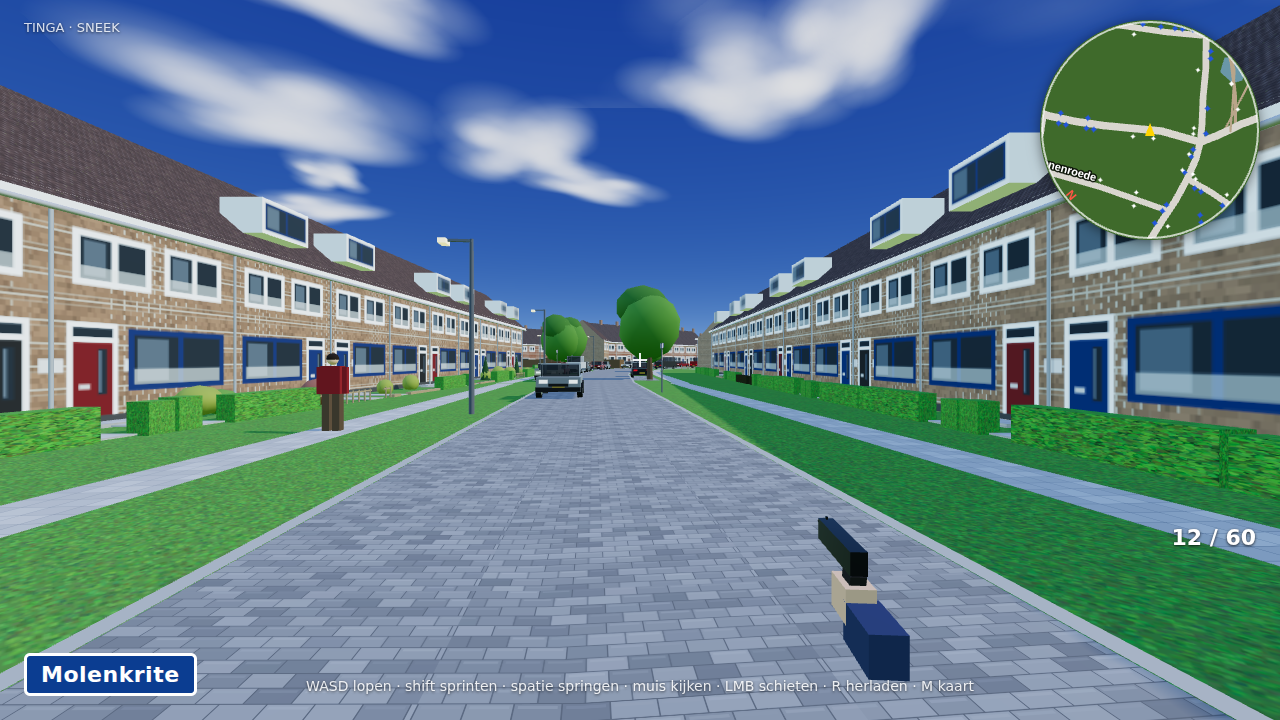
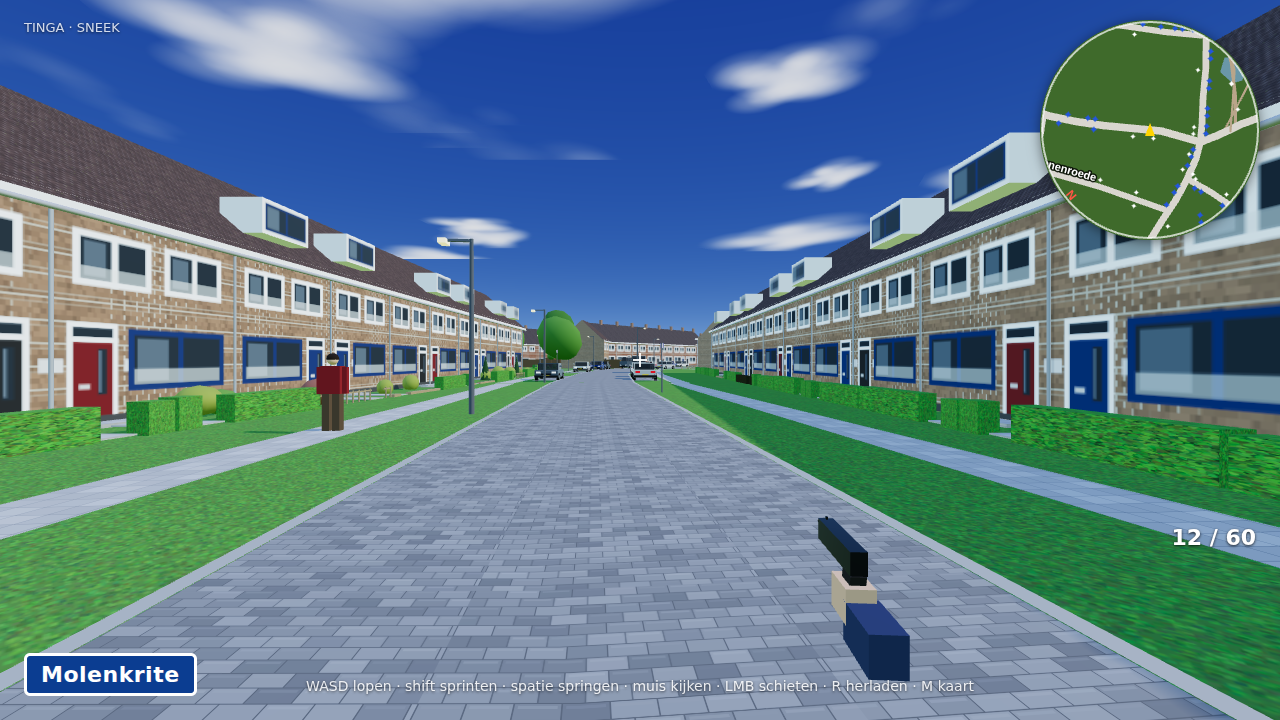
Dakkapel op elke woning en het juiste straatprofiel voor De Wieken
- Elk huis in Molenkrite en De Wieken heeft nu een dakkapel. Er zat een regel
  in die er willekeurig een op de drie oversloeg, terwijl in beide straten
  elke woning er een heeft
- Het straatprofiel kan nu per zijde verschillen. Aan de kant van de huizen
  ligt het trottoir direct tegen de rijbaan, zoals op de foto: tuin, voetpad,
  weg. Alleen waar een park of water ligt blijft de brede grasberm met bomen
- De Wieken is daarvoor gesplitst in het schuine deel, met het parkje aan de
  noordoostkant en huizen aan de zuidwestkant, en het oost-westdeel met
  huizen aan weerszijden
- Voortuinen langs De Wieken van zeven naar vier meter, zodat de rooilijn
  klopt met de foto
- Parkeerhavens en straatbomen verschijnen alleen nog aan een zijde waar de
  berm er ruimte voor heeft; lantaarnpalen staan nu altijd op de stoeprand

Claude-Session: https://claude.ai/code/session_01CgvJ3cT2qTz68qbaTBhnbp

diff --git a/js/world.js b/js/world.js
@@ -197,20 +197,29 @@ function buildRoads(scene) {
     const mat = MAT[road.type] || MAT.klinker;
     scene.add(Object.assign(new THREE.Mesh(ribbon(pts, road.w, ROAD_Y + i * 0.0007, 0, 0.5), mat), { receiveShadow: true }));
     const isPath = road.type === 'pad' || road.type === 'fietspad';
-    const verge = road.verge || 0;
+    // De berm kan per zijde verschillen: aan de kant van de huizen ligt het
+    // trottoir vaak direct tegen de rijbaan (tuin, voetpad, weg), terwijl aan
+    // de overkant een brede grasberm met bomen ligt.
+    const vergeL = road.vergeL != null ? road.vergeL : (road.verge || 0);
+    const vergeR = road.vergeR != null ? road.vergeR : (road.verge || 0);
     const walkSides = road.walk || '';
-    const walkOff = road.w / 2 + verge + 0.6;   // hart van het trottoir
-    const corr = road.w / 2 + (isPath ? 0.4 : verge + 1.4);
+    const walkOffL = road.w / 2 + vergeL + 0.6;
+    const walkOffR = road.w / 2 + vergeR + 0.6;
+    const verge = Math.max(vergeL, vergeR);
+    const corr = road.w / 2 + (isPath ? 0.4 : Math.min(vergeL, vergeR) + 1.4);
     for (let k = 0; k < pts.length - 1; k++) {
-      roadSegments.push({ name: road.name, a: [pts[k].x, pts[k].y], b: [pts[k + 1].x, pts[k + 1].y], w: road.w, corr, walkOff, drive: !isPath });
+      roadSegments.push({
+        name: road.name, a: [pts[k].x, pts[k].y], b: [pts[k + 1].x, pts[k + 1].y],
+        w: road.w, corr, walkOff: walkOffL, walkOffL, walkOffR, drive: !isPath,
+      });
     }
     if (!isPath) {
       const total = polyLength(pts);
       const inner = sliceByLength(pts, road.trimStart, total - road.trimEnd) || pts;
       const y = 0.05 + i * 0.0006;
       // trottoir tegen de voortuinen, met een grasberm ertussen
-      if (walkSides.includes('L')) { walkGeoms.push(ribbon(inner, 1.2, y, walkOff, 0.8)); }
-      if (walkSides.includes('R')) { walkGeoms.push(ribbon(inner, 1.2, y, -walkOff, 0.8)); }
+      if (walkSides.includes('L')) { walkGeoms.push(ribbon(inner, 1.3, y, walkOffL, 0.8)); }
+      if (walkSides.includes('R')) { walkGeoms.push(ribbon(inner, 1.3, y, -walkOffR, 0.8)); }
       // trottoirband langs de rijbaan
       curbGeoms.push(ribbon(pts, 0.16, ROAD_Y + 0.004 + i * 0.0007, road.w / 2 + 0.08, 1));
       curbGeoms.push(ribbon(pts, 0.16, ROAD_Y + 0.004 + i * 0.0007, -(road.w / 2 + 0.08), 1));
@@ -224,8 +233,8 @@ function buildRoads(scene) {
           const yaw = -Math.atan2(d.y, d.x);
           for (let sPos = 4; sPos < len - 9; sPos += 13.5) {
             for (const sgn of [1, -1]) {
-              if (sgn > 0 && !bays.includes('L')) continue;
-              if (sgn < 0 && !bays.includes('R')) continue;
+              if (sgn > 0 && (!bays.includes('L') || vergeL < 2.0)) continue;
+              if (sgn < 0 && (!bays.includes('R') || vergeR < 2.0)) continue;
               const bayLen = 10.8, bayW = 2.2;
               const c = a.clone().add(d.clone().multiplyScalar(sPos + bayLen / 2))
                 .add(nrm.clone().multiplyScalar(sgn * (road.w / 2 + bayW / 2)));
@@ -323,11 +332,13 @@ function buildNature(scene) {
     for (let k = 0; k < pts.length - 1; k++) {
       const a = pts[k], b = pts[k + 1]; const d = b.clone().sub(a); const len = d.length(); d.normalize();
       const nrm = new THREE.Vector2(d.y, -d.x);
-      const vg = road.verge || 0;
-      if (vg < 1.6) continue;
+      const vgL = road.vergeL != null ? road.vergeL : (road.verge || 0);
+      const vgR = road.vergeR != null ? road.vergeR : (road.verge || 0);
+      if (Math.max(vgL, vgR) < 1.6) continue;
       for (let s = 6; s < len - 4; s += 13.5) {
         for (const side of [1, -1]) {
-          if (r() < 0.42) continue;
+          const vg = side > 0 ? vgL : vgR;
+          if (vg < 1.6 || r() < 0.42) continue;
           const p = a.clone().add(d.clone().multiplyScalar(s)).add(nrm.clone().multiplyScalar(side * (road.w / 2 + vg * 0.55)));
           if (!nearBuilding(p, 2.5) && !inWater(p) && !nearParkBay(p, 2.0)) treePositions.push({ x: p.x, z: p.y, s: 0.95 + r() * 0.5 });
         }
@@ -906,10 +917,12 @@ function buildFurniture(scene) {
     for (let k = 0; k < pts.length - 1; k++) {
       const a = pts[k], b = pts[k + 1]; const d = b.clone().sub(a); const len = d.length(); d.normalize();
       const nrm = new THREE.Vector2(d.y, -d.x);
-      const vg = road.verge || 0;
+      const vgL2 = road.vergeL != null ? road.vergeL : (road.verge || 0);
+      const vgR2 = road.vergeR != null ? road.vergeR : (road.verge || 0);
       for (let s = 3; s < len; s += 30) {
         const side = ((Math.floor(s / 30) + k) % 2 === 0) ? 1 : -1;
-        const p = a.clone().add(d.clone().multiplyScalar(s)).add(nrm.clone().multiplyScalar(side * (road.w / 2 + Math.min(1.0, vg * 0.45))));
+        const vg = side > 0 ? vgL2 : vgR2;
+        const p = a.clone().add(d.clone().multiplyScalar(s)).add(nrm.clone().multiplyScalar(side * (road.w / 2 + Math.max(0.45, Math.min(1.0, vg * 0.45)))));
         lamps.push({ x: p.x, z: p.y, yaw: -Math.atan2(d.y, d.x), side });
       }
       // straatnaambord + 30-bord aan het begin van elke weg

diff --git a/js/data.js b/js/data.js
@@ -84,17 +84,21 @@ export const ROADS = [
     pts: [[1160,1548],[1180,1580],[1176,1640],[1160,1700],[1178,1763],[1170,1830],[1188,1890],[1183,2000],[1183,2140]] },
 
   // ---- De Wieken / Bovenas / Windbord / Voorzoom ----
-  { name: 'De Wieken', type: 'rood', w: 4.8, verge: 2.4, walk: 'LR', bays: 'L',
+  { name: 'De Wieken', type: 'rood', w: 4.8, vergeL: 2.6, vergeR: 0.4, walk: 'LR', bays: 'L',
     pts: [[-215,880],[-210,950],[-204,1000],[-195,1060],[-175,1130],[-145,1185]] },
-  { name: 'De Wieken', type: 'rood', w: 4.8, verge: 2.4, walk: 'LR', bays: 'R',
-    pts: [[-145,1185],[-105,1240],[-60,1290],[-10,1345],[20,1355],[50,1380],[100,1420],[150,1440],[230,1450],[305,1460]] },
+  // schuine deel: parkje aan de noordoostkant, huizen aan de zuidwestkant
+  { name: 'De Wieken', type: 'rood', w: 4.8, vergeL: 2.8, vergeR: 0.4, walk: 'LR',
+    pts: [[-145,1185],[-105,1240],[-60,1290],[-10,1345]] },
+  // oost-westdeel: huizen aan weerszijden, dus tuin, voetpad, weg aan beide kanten
+  { name: 'De Wieken', type: 'rood', w: 4.8, vergeL: 0.5, vergeR: 0.5, walk: 'LR',
+    pts: [[-10,1345],[20,1355],[50,1380],[100,1420],[150,1440],[230,1450],[305,1460]] },
   { name: 'De Wieken', type: 'rood', w: 4.8, verge: 2.4, walk: 'LR',
     pts: [[305,1460],[380,1465],[480,1462],[560,1465],[595,1470]] },
   { name: 'Bovenas', type: 'klinker', w: 4.8, verge: 2.4, walk: 'LR', bays: 'R',
     pts: [[105,1450],[112,1500],[110,1550],[100,1600],[85,1650],[60,1700],[30,1740],[0,1770],[-40,1800]] },
-  { name: 'Windbord', type: 'klinker', w: 4.2, verge: 2.0, walk: 'LR',
+  { name: 'Windbord', type: 'klinker', w: 4.2, vergeL: 2.2, vergeR: 0.4, walk: 'LR',
     pts: [[-10,1345],[-18,1380],[-25,1430],[-35,1480],[-45,1530]] },
-  { name: 'Voorzoom', type: 'klinker', w: 4.2, verge: 2.0, walk: 'LR',
+  { name: 'Voorzoom', type: 'klinker', w: 4.2, vergeL: 2.2, vergeR: 0.4, walk: 'LR',
     pts: [[-175,1130],[-240,1120],[-310,1112],[-380,1108]] },
 
   // ---- Bonkelaar ----
@@ -257,9 +261,9 @@ R(770,1218, 710,1272, 13, 11, 'detached');   // hoekwoning Molenpaal/Jasker
 R(1010,1240, 1090,1240, 8, 18, 'spil', { label: 'Wijkvereniging De Spil', storeys: 1 });
 
 // ===== De Wieken =====
-R(-215,900, -180,1100, -13, 9, 'wieken_white');   // noord-zuid deel, westzijde
-R(-145,1185, -10,1345, -13, 9, 'wieken_white');   // zuidoost lopend deel, zuidwestzijde
-R(50,1380, 100,1420,   -13, 9, 'wieken_yellow');  // bungalows
+R(-215,900, -180,1100, -9.5, 9, 'wieken_white'); // noord-zuid deel, westzijde
+R(-145,1185, -10,1345, -9.5, 9, 'wieken_white'); // zuidwestzijde: tuin, voetpad, weg
+R(40,1370, 250,1455,   -10, 9, 'wieken_yellow');  // zuidzijde oost-westdeel
 // Voorzoom
 R(-200,1127, -370,1109,  12, 9, 'wieken_white');
 R(-300,1116, -370,1109, -12, 9, 'wieken_yellow');
@@ -305,8 +309,8 @@ R(830,1168, 668,1315,  13, 9, 'jasker_gable');
 // Molenkrite noordwesttak: vierde rij richting Binnenroede
 
 // De Wieken: beide zijden over de volle lengte
-R(-145,1185, -18,1338,  13, 9, 'wieken_yellow');   // noordoostzijde schuine deel
-R(30,1362, 245,1452,    13, 9, 'wieken_white');    // noordzijde oost-westdeel
+
+R(30,1362, 245,1452,    10, 9, 'wieken_white');    // noordzijde oost-westdeel
 // Voorzoom en Windbord over de volle lengte
 R(-190,1128, -372,1110, -12, 9, 'wieken_yellow');
 // Bovenas oostzijde
